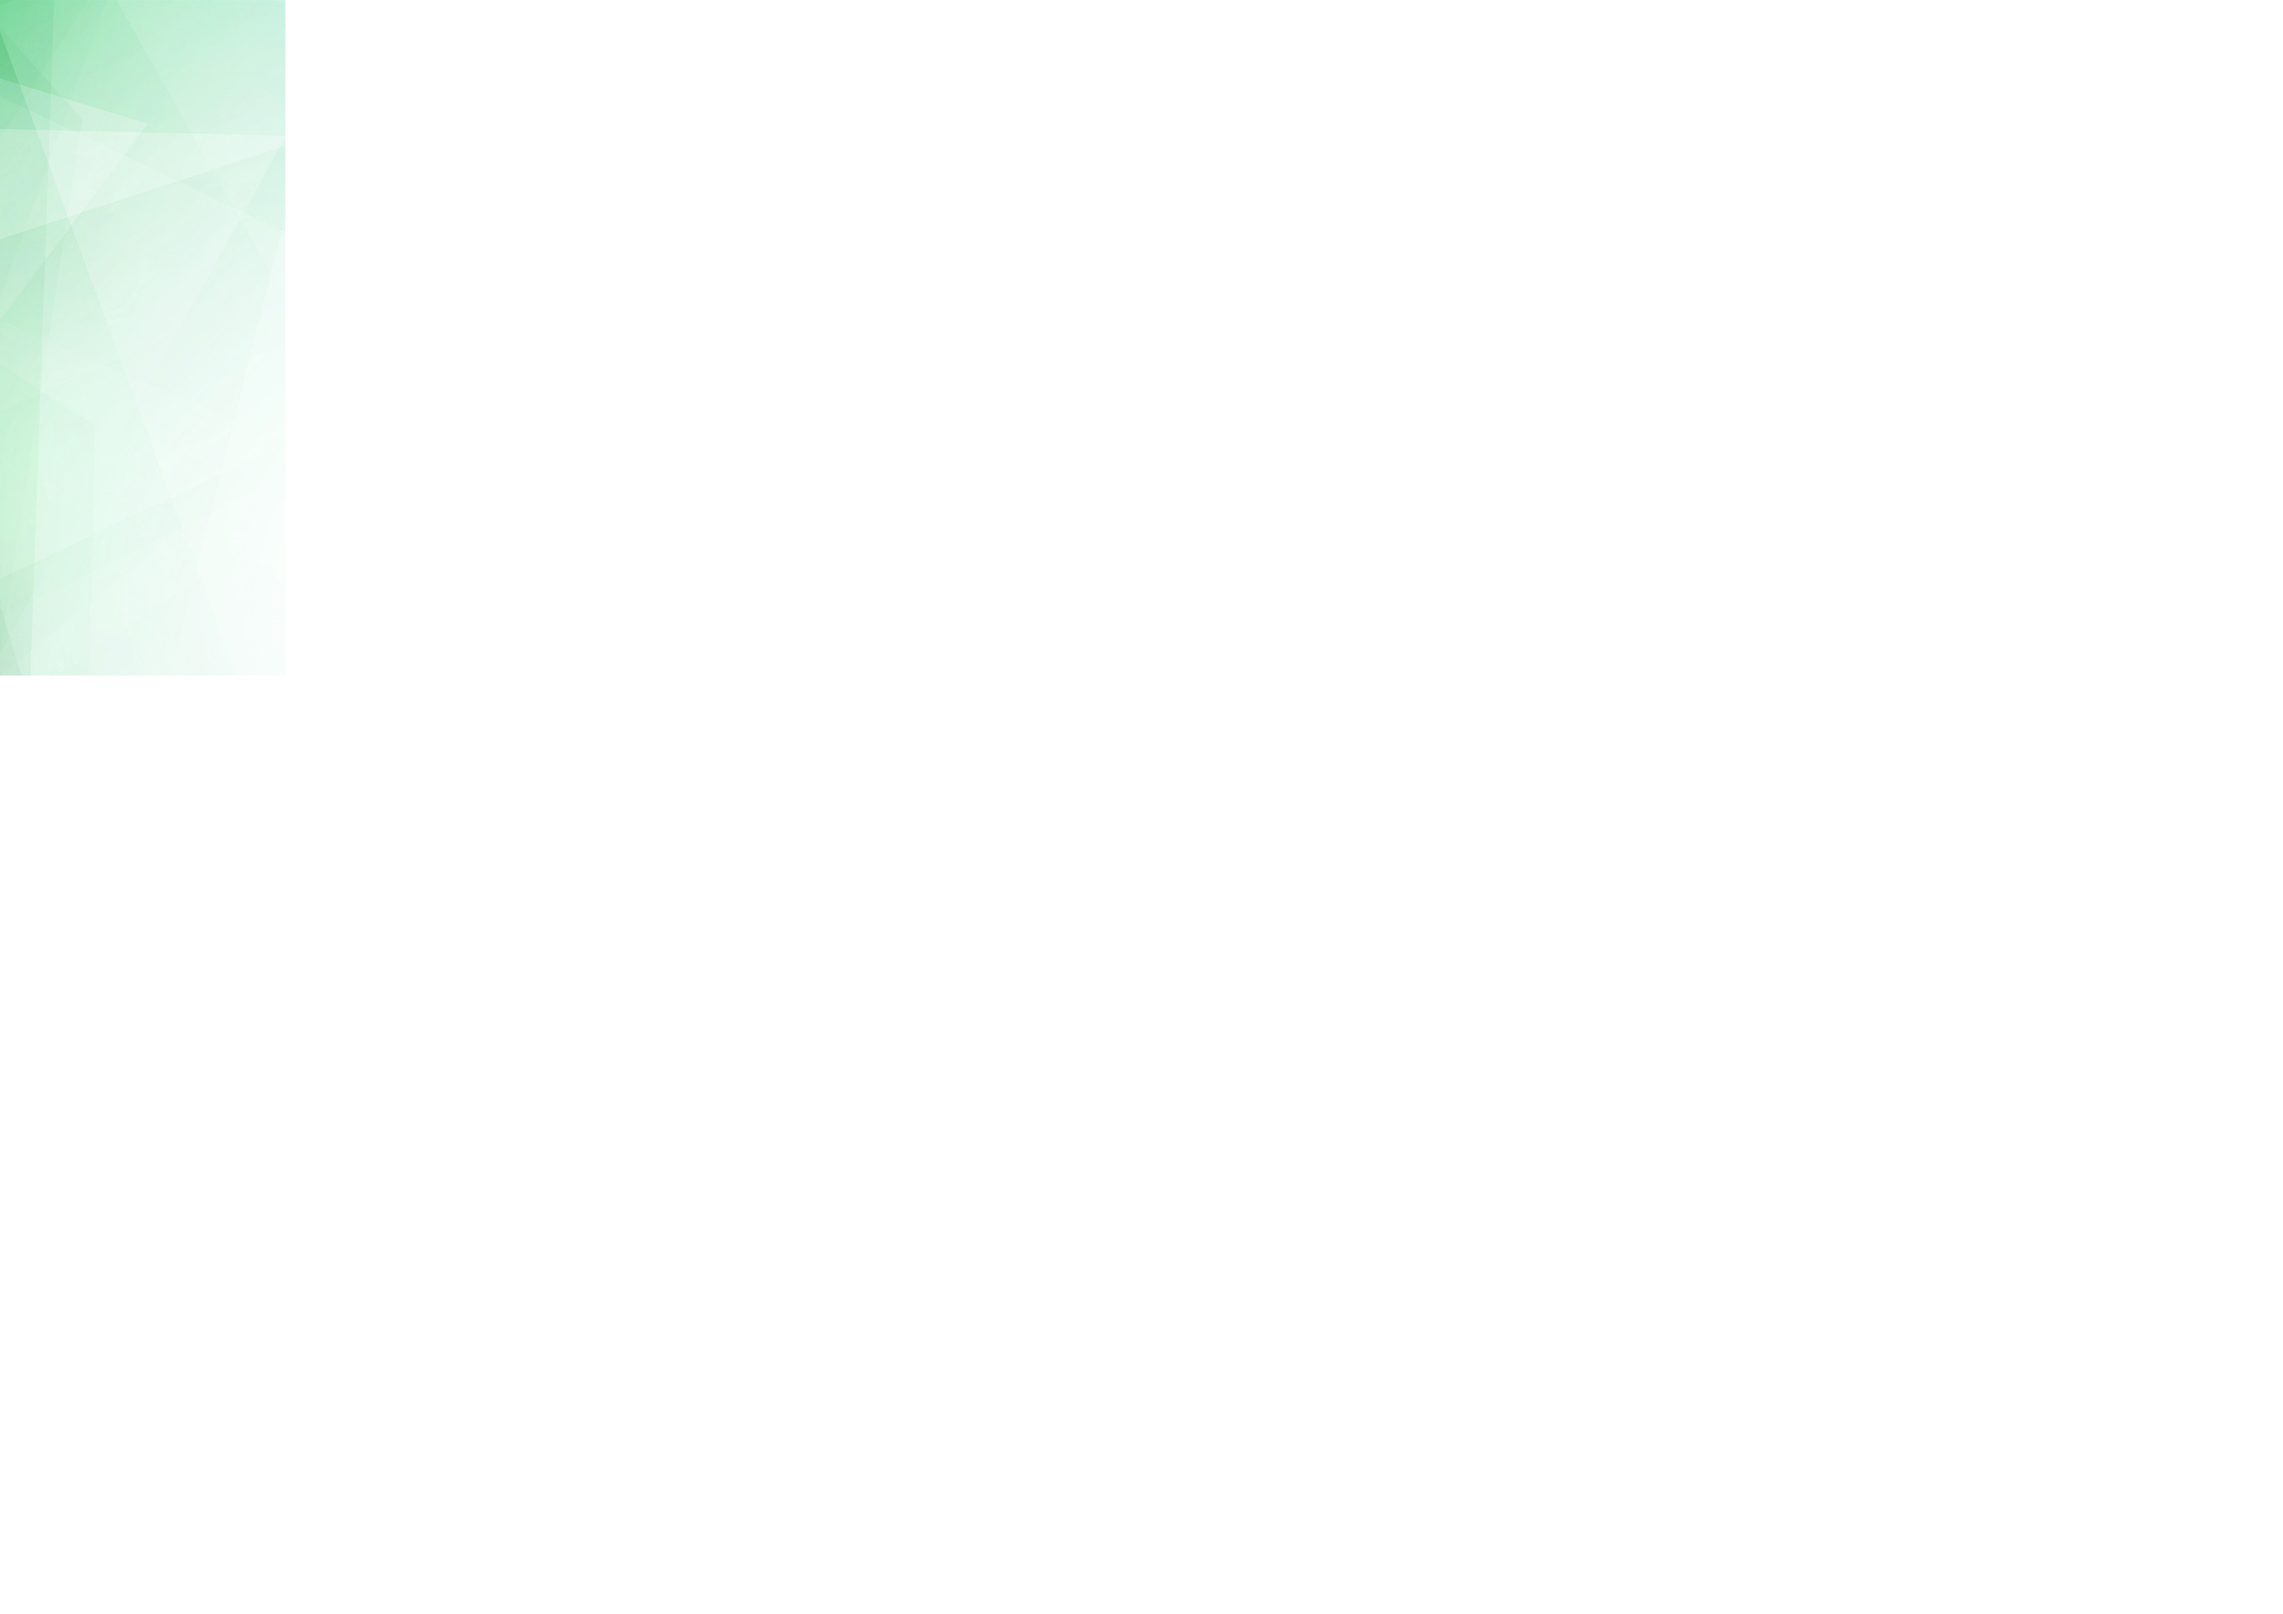
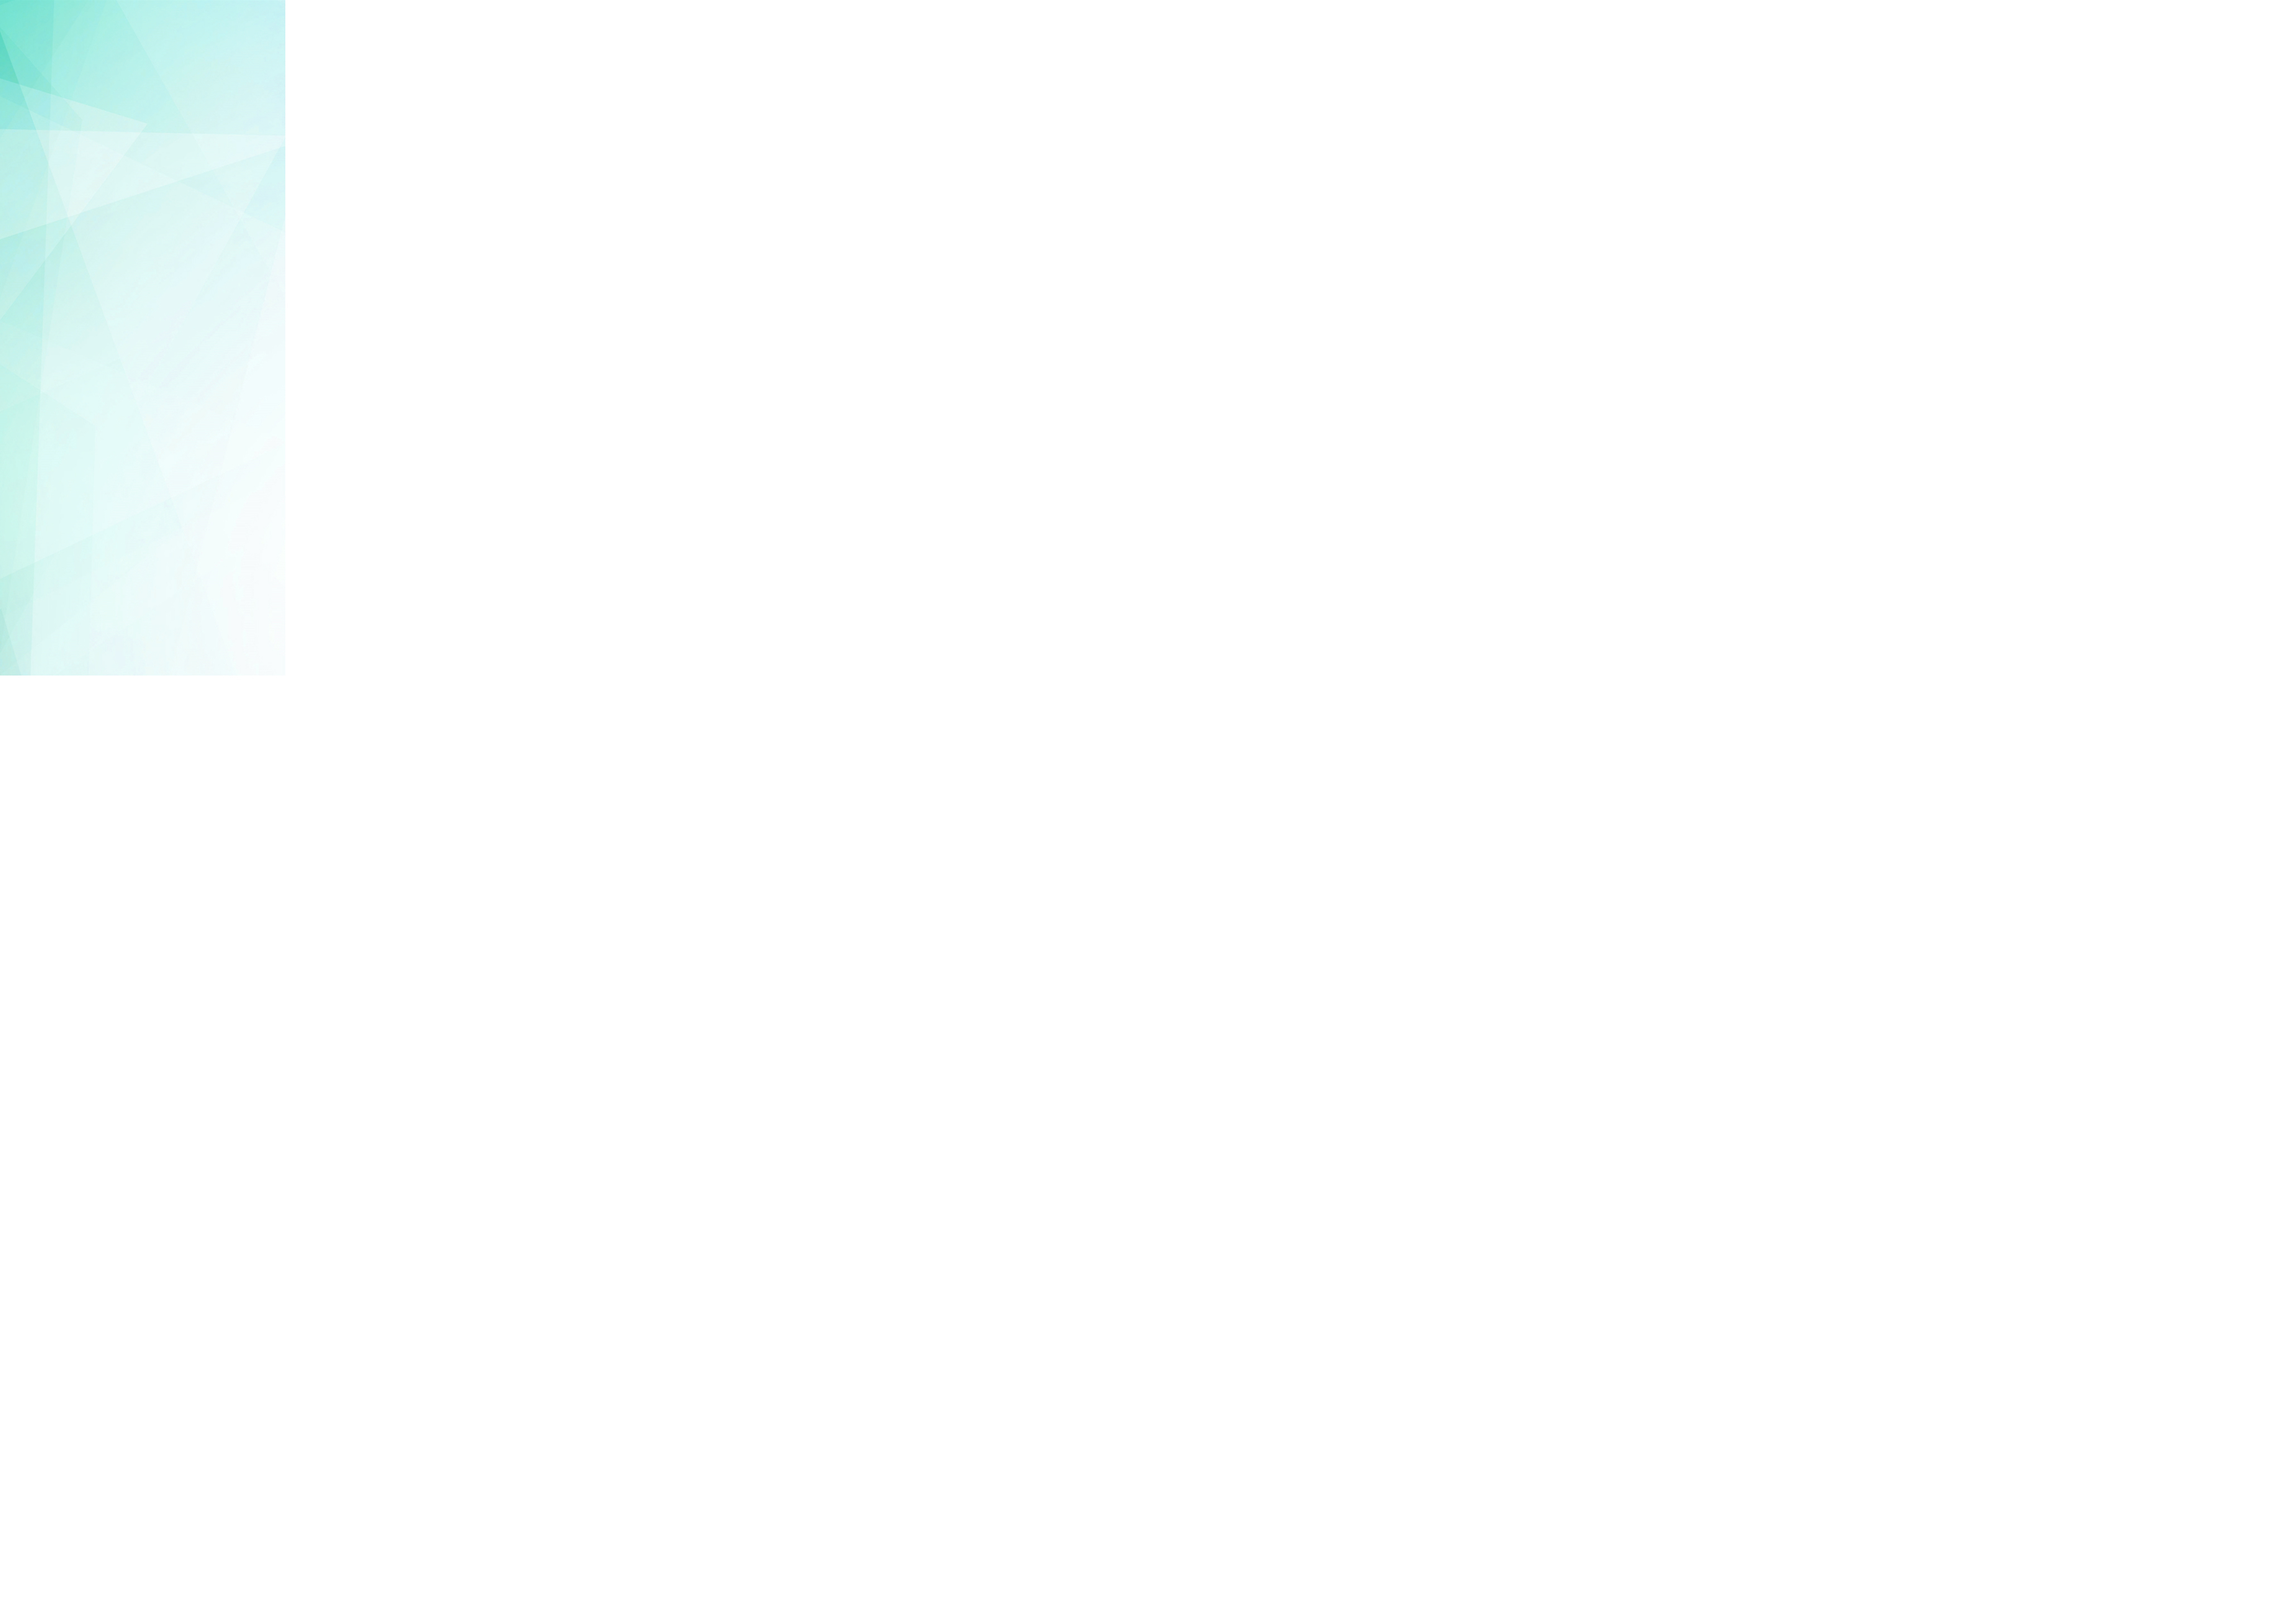
为现有所有页面添加样式

Changed region(s): [[0.0, 0.0, 0.0931, 0.0933], [0.0, 0.1244, 0.031, 0.1866]]

diff --git a/src/main/resources/org/example/javafx/css/pagesWithTableAndTab.css b/src/main/resources/org/example/javafx/css/pagesWithTableAndTab.css
@@ -1,5 +1,5 @@
 .table-view {
-    -fx-background-color: #dbffed;
+    -fx-background-color: #edfff4;
     -fx-border-color: #dbffed;
 }
 
@@ -102,26 +102,26 @@
 
 /* 修改TabPane的Pane区域背景颜色 */
 .tab-pane {
-    -fx-background-color: #e6fff8;
+    -fx-background-color: #e6fffd;
     -fx-border-width: 3px;
     -fx-border-radius: 5px;
 }
 /* 修改Tab的背景颜色 */
 .tab {
-    -fx-background-color: #e6fff8;
+    -fx-background-color: #e6fffd;
 }
 /* 修改顶栏的背景颜色 */
 .tab-pane>*.tab-header-area>*.tab-header-background
 {
-    -fx-background-color:#e6fff8;
+    -fx-background-color:#e6fffd;
 }
 /* 修改Tab中文本的颜色 */
 .tab-label {
-    -fx-text-fill: #028f8b;
+    -fx-text-fill: #ffffff;
 }
 
 .tab:selected {
-    -fx-background-color: #42e3a0;
+    -fx-background-color: #3fd2af;
 }
 
 
@@ -134,7 +134,7 @@
 }
 .combo-box .list-cell{
     -fx-background-color: #00bdb8;
-    -fx-text-fill: #c8fae2;
+    -fx-text-fill: #fff;
 }
 .combo-box .list-cell:hover {
     -fx-text-fill: white;
@@ -142,15 +142,16 @@
 }
 
 .button {
-    -fx-background-color: #00bdb8;
+    -fx-background-color: #00bda7;
     -fx-text-fill: #fff;
     -fx-border-style: none;
     -fx-border-radius: 3px;
 }
 
 .text-field {
-    -fx-background-color: #5fcbc7;
+    -fx-background-color: #70dad6;
     -fx-text-fill: #fff;
+    -fx-prompt-text-fill: #fff;
 }
 
 .scroll-pane {
@@ -161,7 +162,13 @@
 }
 
 #changeBox {
-    -fx-background-color: #e6fff8;
+    -fx-background-color: #e6fffd;
 }
+
+#anchorPane, #editDeleteAnchorPane ,#editDeleteBorderPane ,#pane , #lesson {
+    -fx-background-color: #e6fffd;
+}
+
+
 
 

diff --git a/src/main/resources/org/example/javafx/css/mainframe.css b/src/main/resources/org/example/javafx/css/mainframe.css
@@ -15,3 +15,25 @@
 #statueLabel{
     -fx-background-color: #dbffed;
 }
+
+#searchButton ,#changeButton{
+    -fx-background-color: #e6ffef;
+    -fx-text-fill: #00543c;
+    -fx-border-style: none;
+    -fx-border-radius: 3px;
+}
+
+.combo-box-base {
+    -fx-background-color: #13b49d;
+    -fx-border-width: 2px;
+    -fx-border-color: #13b49d;
+    -fx-border-radius: 3px;
+}
+.combo-box .list-cell{
+    -fx-background-color: #13b49d;
+    -fx-text-fill: #fff;
+}
+.combo-box .list-cell:hover {
+    -fx-text-fill: white;
+    -fx-background-color: #85d3d1;
+}

diff --git a/src/main/resources/org/example/javafx/css/dashBoard.css b/src/main/resources/org/example/javafx/css/dashBoard.css
@@ -1,5 +1,5 @@
 #anchorpane {
-    -fx-background-color: #dbffed;
+    -fx-background-color: #e6fffd;
 }
 
 #gridPane {
@@ -23,6 +23,8 @@
     -fx-background-color: white;
     -fx-border-width: 3px;
     -fx-border-radius: 5px;
+    -fx-border-color: #3eb1d0;
+    -fx-border-style: dashed;
 }
 /* 修改Tab的背景颜色 */
 .tab {

diff --git a/src/main/resources/org/example/javafx/css/menuButton-style.css b/src/main/resources/org/example/javafx/css/menuButton-style.css
@@ -18,7 +18,7 @@
     -fx-text-fill: #134f57;
 }
 .button:focused {
-    -fx-background-color: rgba(217, 255, 235);
+    -fx-background-color: rgb(217, 255, 245);
     -fx-text-fill: #134f57;
 }
 
